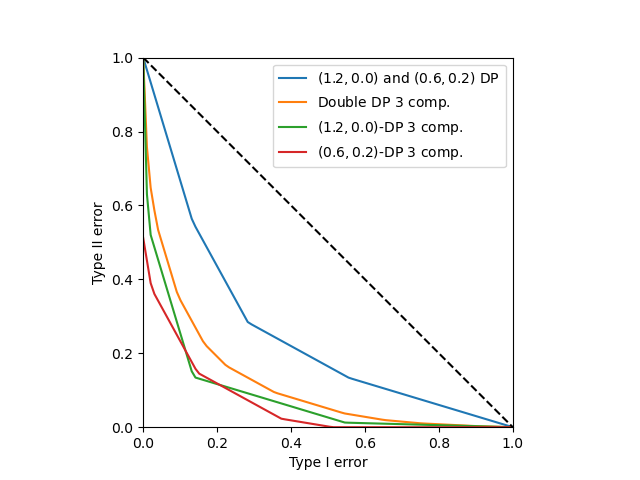
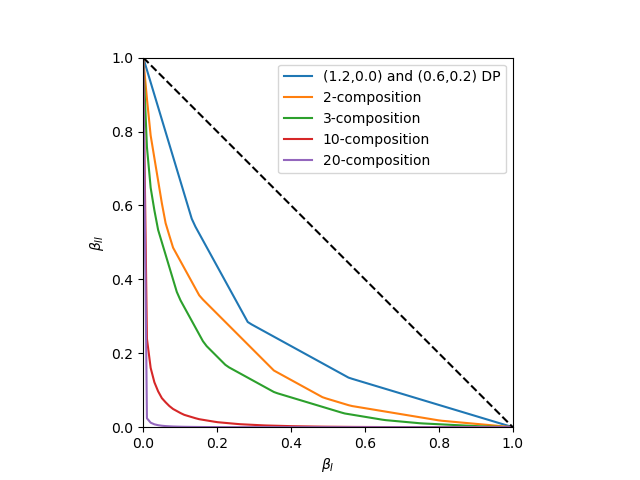
better plots

diff --git a/src/main.py b/src/main.py
@@ -5,7 +5,8 @@ from base.utils import plot_multiple_functions
 from f_dp_approximation.gaussian_tradeoff import GaussianTradeoff
 from f_dp_approximation.laplace_tradeoff import LaplaceTradeoff
 from main_theorems.heterogeneous_version import privacy_region_composition_double_dp_heterogeneous_comp
-from main_theorems.other_composition_theorems import privacy_region_composition_exact
+from main_theorems.other_composition_theorems import (privacy_region_composition_exact, tv_of_eps_delta,
+                                                      privacy_region_dp_composition_total_var)
 from multi_dp_mixture.dp_functions import SingleEpsDeltaTradeoff, MultiEpsDeltaTradeoff
 
 
@@ -42,30 +43,103 @@ def mixture_example(alpha_1,eps_1, delta_1, eps_2, delta_2, title):
                             save_to=png(title)
                             )
 
-def main_theorem_example(eps_1, delta_1, eps_2, delta_2, k, title):
+def main_theorem_comparison(eps_1, delta_1, eps_2, delta_2, k, title):
     """
     Plot an instance of the double-DP main theorem's result compared to the corresponding
-    single-DP exact composition trade-off functions.
+    single-DP exact composition and the DPTV region.
     """
 
+    if delta_1 > delta_2:
+        delta_1, delta_2 = delta_2, delta_1
+        eps_1, eps_2 = eps_2, eps_1
+
     f1 = privacy_region_composition_double_dp_heterogeneous_comp(eps_1, delta_1, eps_2, delta_2, k)
-    fo = MultiEpsDeltaTradeoff([eps_1, eps_2], [delta_1, delta_2])
     f_dp_1 = privacy_region_composition_exact(eps_1, delta_1, k)
     f_dp_2 = privacy_region_composition_exact(eps_2, delta_2, k)
+    f_dp_single = TradeOffFunction.intersection([f_dp_1, f_dp_2])
+
+    induced_tv = tv_of_eps_delta(eps_2, delta_2)
+    f_dptv = privacy_region_dp_composition_total_var(eps_1, delta_1, induced_tv, k)
+    f_dptv = TradeOffFunction.intersection([f_dptv, f_dp_2])
 
     plot_multiple_functions(
         [
-         fo,
          f1,
-         f_dp_1,
-         f_dp_2
+         f_dp_single,
+         f_dptv
          ],
         [
-         f"$({eps_1},{delta_1})$ and $({eps_2},{delta_2})$ DP",
-         f"Double DP ${k}$ comp.",
-         f"$({eps_1},{delta_1})$-DP {k} comp.",
-         f"$({eps_2},{delta_2})$-DP {k} comp."
+         f"Double DP {k}-comp.",
+         f"Single DP {k}-comp",
+         f"DPTV {k}-comp"
          ],
+        save_to=png(title)
+    )
+
+def main_theorem_comparison_two_ks(eps_1, delta_1, eps_2, delta_2, k1, k2, title):
+    """
+    Plot an instance of the double-DP main theorem's result compared to the corresponding
+    single-DP exact composition and the DPTV region.
+    """
+
+    if delta_1 > delta_2:
+        delta_1, delta_2 = delta_2, delta_1
+        eps_1, eps_2 = eps_2, eps_1
+
+    f_double_dp_1 = privacy_region_composition_double_dp_heterogeneous_comp(eps_1, delta_1, eps_2, delta_2, k1)
+    f_double_dp_2 = privacy_region_composition_double_dp_heterogeneous_comp(eps_1, delta_1, eps_2, delta_2, k2)
+
+    f_dp_1_k1 = privacy_region_composition_exact(eps_1, delta_1, k1)
+    f_dp_2_k1 = privacy_region_composition_exact(eps_2, delta_2, k1)
+    f_dp_single_1 = TradeOffFunction.intersection([f_dp_1_k1, f_dp_2_k1])
+
+    f_dp_1_k2 = privacy_region_composition_exact(eps_1, delta_1, k2)
+    f_dp_2_k2 = privacy_region_composition_exact(eps_2, delta_2, k2)
+    f_dp_single_2 = TradeOffFunction.intersection([f_dp_1_k2, f_dp_2_k2])
+
+    induced_tv = tv_of_eps_delta(eps_2, delta_2)
+    f_dptv_k1 = privacy_region_dp_composition_total_var(eps_1, delta_1, induced_tv, k1)
+    f_dptv_k1 = TradeOffFunction.intersection([f_dptv_k1, f_dp_2_k1])
+    f_dptv_k2 = privacy_region_dp_composition_total_var(eps_1, delta_1, induced_tv, k2)
+    f_dptv_k2 = TradeOffFunction.intersection([f_dptv_k2, f_dp_2_k2])
+
+    plot_multiple_functions(
+        [
+         f_double_dp_1,
+         f_dp_single_1,
+         f_dptv_k1,
+         f_double_dp_2,
+         f_dp_single_2,
+         f_dptv_k2
+         ],
+        [
+         f"Double DP {k1}-comp.",
+         f"Single DP {k1}-comp",
+         f"DPTV {k1}-comp",
+         f"Double DP {k2}-comp.",
+         f"Single DP {k2}-comp",
+         f"DPTV {k2}-comp"
+         ],
+        save_to=png(title)
+    )
+
+def main_theorem_example(eps_1, delta_1, eps_2, delta_2, k_ls, title):
+    """
+    Plot an instance of the main theorem for multiple values of k.
+    """
+    if delta_1 > delta_2:
+        delta_1, delta_2 = delta_2, delta_1
+        eps_1, eps_2 = eps_2, eps_1
+
+    f_double_dp = MultiEpsDeltaTradeoff([eps_1, eps_2], [delta_1, delta_2])
+
+    f_comp = []
+    for k in k_ls:
+        f_comp.append(privacy_region_composition_double_dp_heterogeneous_comp(eps_1, delta_1, eps_2, delta_2, k))
+
+    plot_multiple_functions(
+        [f_double_dp] + f_comp,
+        [f"({eps_1},{delta_1}) and ({eps_2},{delta_2}) DP"] + [f"{k}-composition" for k in k_ls],
         save_to=png(title)
     )
 
@@ -88,6 +162,11 @@ def gaussian_tradeoff_approx(mu, title):
             f"${float(mu):.2}-GDP$",
             f"Approx below",
             "Approx above",
+        ],
+        [
+            "solid",
+            "dashed",
+            "dashed"
         ],
         save_to=png(title)
     )
@@ -125,6 +204,115 @@ def gaussian_compos_approx(mu, k, title):
             "Comp. approx from below",
             "Comp. approx from above"
         ],
+        [
+            "solid",
+            "dashed",
+            "dashed"
+        ],
+        save_to=png(title)
+    )
+
+def gaussian_tradeoff_and_compos_approx(mu, k, title):
+    """
+    Plot the double-DP lower and upper approximations of the gaussian trade-off composition as well as
+    the gaussian tradeoff function itself.
+    """
+    mu_composed = np.sqrt(k) * mu
+    g_mu = GaussianTradeoff(mu)
+    g_mu_composed = GaussianTradeoff(mu_composed)
+    g_mu_approx_below = g_mu.approx_from_below()
+    g_mu_approx_above = g_mu.approx_from_above()
+
+    eps_ls = g_mu_approx_below.get_eps_list()
+    delta_ls = g_mu_approx_below.get_delta_list()
+    g_mu_composed_below = privacy_region_composition_double_dp_heterogeneous_comp(
+        eps_ls[0], delta_ls[0], eps_ls[1], delta_ls[1], k
+    )
+
+    eps_ls = g_mu_approx_above.get_eps_list()
+    delta_ls = g_mu_approx_above.get_delta_list()
+    g_mu_composed_above = privacy_region_composition_double_dp_heterogeneous_comp(
+        eps_ls[0], delta_ls[0], eps_ls[1], delta_ls[1], k
+    )
+
+    plot_multiple_functions(
+        [
+            g_mu,
+            g_mu_approx_below,
+            g_mu_approx_above,
+            g_mu_composed,
+            g_mu_composed_below,
+            g_mu_composed_above
+        ],
+        [
+            f"${float(mu):.2}-GDP$",
+            f"Lower approx of ${float(mu):.2}-GDP$",
+            f"Upper approx of ${float(mu):.2}-GDP$",
+            f"${float(mu_composed):.2}$-GDP ({k}-composition of ${float(mu):.2}$-GDP)",
+            f"{k}-comp. approx from below",
+            f"{k}-comp. approx from above"
+        ],
+        [
+            "solid",
+            "dashed",
+            "dashed",
+            "solid",
+            "dashed",
+            "dashed"
+        ],
+        save_to=png(title)
+    )
+
+def gaussian_compos_approx_two_compos(mu, k1, k2, title):
+    """
+    Plot the double-DP lower and upper approximations of the gaussian trade-off composition for 2 values of k.
+    """
+    mu_composed_k1 = np.sqrt(k1) * mu
+    mu_composed_k2 = np.sqrt(k2) * mu
+
+    g_mu = GaussianTradeoff(mu)
+
+    g_mu_composed_k1 = GaussianTradeoff(mu_composed_k1)
+    g_mu_composed_k2 = GaussianTradeoff(mu_composed_k2)
+
+    g_mu_approx_below = g_mu.approx_from_below()
+    g_mu_approx_above = g_mu.approx_from_above()
+
+    eps_ls = g_mu_approx_below.get_eps_list()
+    delta_ls = g_mu_approx_below.get_delta_list()
+    g_mu_composed_below = privacy_region_composition_double_dp_heterogeneous_comp(
+        eps_ls[0], delta_ls[0], eps_ls[1], delta_ls[1], k1
+    )
+    g_mu_composed_below_2 = privacy_region_composition_double_dp_heterogeneous_comp(
+        eps_ls[0], delta_ls[0], eps_ls[1], delta_ls[1], k2
+    )
+
+    eps_ls = g_mu_approx_above.get_eps_list()
+    delta_ls = g_mu_approx_above.get_delta_list()
+    g_mu_composed_above = privacy_region_composition_double_dp_heterogeneous_comp(
+        eps_ls[0], delta_ls[0], eps_ls[1], delta_ls[1], k1
+    )
+    g_mu_composed_above_2 = privacy_region_composition_double_dp_heterogeneous_comp(
+        eps_ls[0], delta_ls[0], eps_ls[1], delta_ls[1], k2
+    )
+
+    plot_multiple_functions(
+        [
+            g_mu_composed_k1,
+            g_mu_composed_below,
+            g_mu_composed_above,
+            g_mu_composed_k2,
+            g_mu_composed_below_2,
+            g_mu_composed_above_2
+        ],
+        [
+            f"${float(mu_composed_k1):.2}$-GDP ({k1}-composition of ${float(mu):.2}$-GDP)",
+            f"{k1}-comp. approx from below",
+            f"{k1}-comp. approx from above",
+            f"${float(mu_composed_k2):.2}$-GDP ({k2}-composition of ${float(mu):.2}$-GDP)",
+            f"{k2}-comp. approx from below",
+            f"{k2}-comp. approx from above",
+        ],
         save_to=png(title)
     )
 
@@ -154,5 +342,15 @@ if __name__ == "__main__":
     mixture_example(alpha_1 = 0.5, eps_1 = 1.3, delta_1 = 0.0, eps_2 = 0.5, delta_2 = 0.2, title="mixture_example")
     gaussian_tradeoff_approx(mu=1, title="gaussian_approx")
     gaussian_compos_approx(k=20, mu=0.05, title="gaussian_compos_approx")
-    gaussian_compos_approx(k=4, mu=1, title="gaussian_compos_approx_2")
-    main_theorem_example(eps_1 = 1.2, delta_1 = 0.0, eps_2 = 0.6, delta_2 = 0.2, k = 3, title="theorem_1_example")
+    gaussian_compos_approx(k=3, mu=1, title="gaussian_compos_approx_2")
+    gaussian_compos_approx_two_compos(k1=10, k2=3, mu=1, title="gaussian_2_compos")
+    gaussian_tradeoff_and_compos_approx(k=3, mu=1, title="gaussian_tradeoff_and_compos_approx")
+    main_theorem_comparison(eps_1 = 1.2, delta_1 = 0.0, eps_2 = 0.6, delta_2 = 0.2, k = 3, title="theorem_1_comparison")
+    main_theorem_example(eps_1 = 1.2, delta_1 = 0.0, eps_2 = 0.6, delta_2 = 0.2, k_ls = [2, 3, 10, 20],
+                         title="theorem_1_example")
+    main_theorem_example(eps_1 = 0.3, delta_1 = 0.0, eps_2 = 0.15, delta_2 = 0.02, k_ls = [2, 3, 10, 20],
+                         title="theorem_1_example_small_region")
+    main_theorem_comparison_two_ks(eps_1 = 1.2, delta_1 = 0.0, eps_2 = 0.6, delta_2 = 0.2,
+                                   k1=3, k2=10, title="theorem_1_comparison_two_ks")
+    main_theorem_comparison_two_ks(eps_1 = 0.3, delta_1 = 0.0, eps_2 = 0.15, delta_2 = 0.02, k1=3, k2=20,
+                                  title="theorem_1_comparison_two_ks_small_region")

diff --git a/src/base/utils.py b/src/base/utils.py
@@ -1,5 +1,3 @@
-import matplotlib.pyplot as plt
-
 from base.definitions import *
 from base.tradeoff_function import TradeOffFunction
 from multi_dp_mixture.piecewise_affine import DIAGONAL
@@ -7,6 +5,7 @@ from multi_dp_mixture.piecewise_affine import DIAGONAL
 def plot_multiple_functions(
         f_arr: List[TradeOffFunction],
         labels: List[str],
+        linestyles: List[str] = None,
         start=0,
         end=1,
         num_points=100,
@@ -22,6 +21,8 @@ def plot_multiple_functions(
     :param labels: A list of labels corresponding to each function in f_arr,
                    which will be used for the plot's legend.
     :type labels: List[str]
+    :param linestyles: A list of linestyles to be used for each function in f_arr.
+    :type linestyles: List[str], optional. Defaults to solid style for all functions.
     :param start: First point to plot. Defaults to 0.
     :type start: float, optional
     :param end: Last point to plot. Defaults to 1.
@@ -37,18 +38,21 @@ def plot_multiple_functions(
     """
     assert len(f_arr) == len(labels)
 
+    if linestyles is None:
+        linestyles = ["solid"] * len(f_arr)
+
     x = np.linspace(start, end, num_points)
     fig = plt.figure()
     ax = fig.add_subplot()
-    for f, label in zip(f_arr, labels):
-        plt.plot(x, f(x), label=label)
+    for f, label, linestyle in zip(f_arr, labels, linestyles):
+        plt.plot(x, f(x), label=label, linestyle=linestyle)
 
     plt.plot(x, DIAGONAL(x), "k--")
     plt.legend()
     ax.set_aspect('equal', adjustable='box')
     ax.set_autoscale_on(False)
-    plt.xlabel("Type I error")
-    plt.ylabel("Type II error")
+    plt.xlabel("$\\beta_I$")
+    plt.ylabel("$\\beta_{II}}$")
 
     if save_to is not None:
         plt.savefig(save_to)

diff --git a/src/main_theorems/other_composition_theorems.py b/src/main_theorems/other_composition_theorems.py
@@ -2,6 +2,20 @@ from base.definitions import *
 from multi_dp_mixture.dp_functions import MultiEpsDeltaTradeoff
 
 
+def tv_of_eps_delta(eps: float, delta: float) -> float:
+    """
+    Maximum total variation of (eps,delta)-DP mechanism.
+
+    :param eps: Epsilon parameter of the differentially private mechanism.
+    :type eps: float
+    :param delta: Delta parameter of the differentially private mechanism.
+    :type delta: float
+    :return: Max total variation of the mechanism.
+    :rtype: float
+    """
+    return delta + (1-delta) * (np.exp(eps) - 1) / (np.exp(eps) + 1)
+
+
 def privacy_region_composition_exact(eps: float, delta: float, k: int) -> MultiEpsDeltaTradeoff:
     """
     Compute the differential privacy composition region corresponding to the improved result for the composition
@@ -56,6 +70,7 @@ def privacy_region_dp_composition_total_var(
     assert eps >= 0
     assert delta >= 0
     assert k >= 0
+    assert eta >= 0
 
     alpha = 1 - (eta - delta) * (1 + np.exp(eps)) / ((1 - delta) * (np.exp(eps) - 1))
 
@@ -68,7 +83,7 @@ def privacy_region_dp_composition_total_var(
                 [
                     sps.comb(k-a, l) * (((1-alpha)/(1+np.exp(eps))) ** (k-a)) * \
                     (alpha ** a) * (np.exp((k-l-a)*eps) - np.exp((l+j)*eps))
-                    for l in range(np.ceil((k-j-a)/2.))
+                    for l in range(int(np.ceil((k-j-a)/2.)))
                 ]
             )
                 for a in range(k-j)

diff --git a/src/base/tradeoff_function.py b/src/base/tradeoff_function.py
@@ -1,5 +1,5 @@
 from base.definitions import *
-from base.convex_function import RealFunction
+from base.real_function import RealFunction
 
 
 class TradeOffFunction(RealFunction, ABC):
@@ -38,3 +38,17 @@ class TradeOffFunction(RealFunction, ABC):
             f_star += weights[i] * f_arr[i].convex_conjugate()
         f_mixture = f_star.convex_conjugate()
         return f_mixture
+
+    @staticmethod
+    def intersection(f_arr: List['TradeOffFunction']) -> 'TradeOffFunction':
+
+        class IntersectedTradeoffFunction(TradeOffFunction):
+
+            def convex_conjugate(self) -> 'RealFunction':
+                # it can be implemented, but we do not need it for now
+                pass
+
+            def __call__(self, x: Array) -> Array:
+                return np.max(np.array([f(x) for f in f_arr]), axis=0)
+
+        return IntersectedTradeoffFunction()

diff --git a/src/multi_dp_mixture/dp_functions.py b/src/multi_dp_mixture/dp_functions.py
@@ -41,7 +41,6 @@ class SingleEpsDeltaTradeoff(MultiEpsDeltaTradeoff):
         """
         Represents a single (epsilon, delta)-DP tradeoff curve.
 
-
         :ivar eps: The epsilon value characterising the privacy tradeoff.
         :type eps: Float
         :ivar delta: The delta value characterising the privacy tradeoff.

diff --git a/src/multi_dp_mixture/piecewise_affine.py b/src/multi_dp_mixture/piecewise_affine.py
@@ -1,5 +1,5 @@
 from base.definitions import *
-from base.convex_function import RealFunction
+from base.real_function import RealFunction
 
 
 class PiecewiseAffine(RealFunction):
